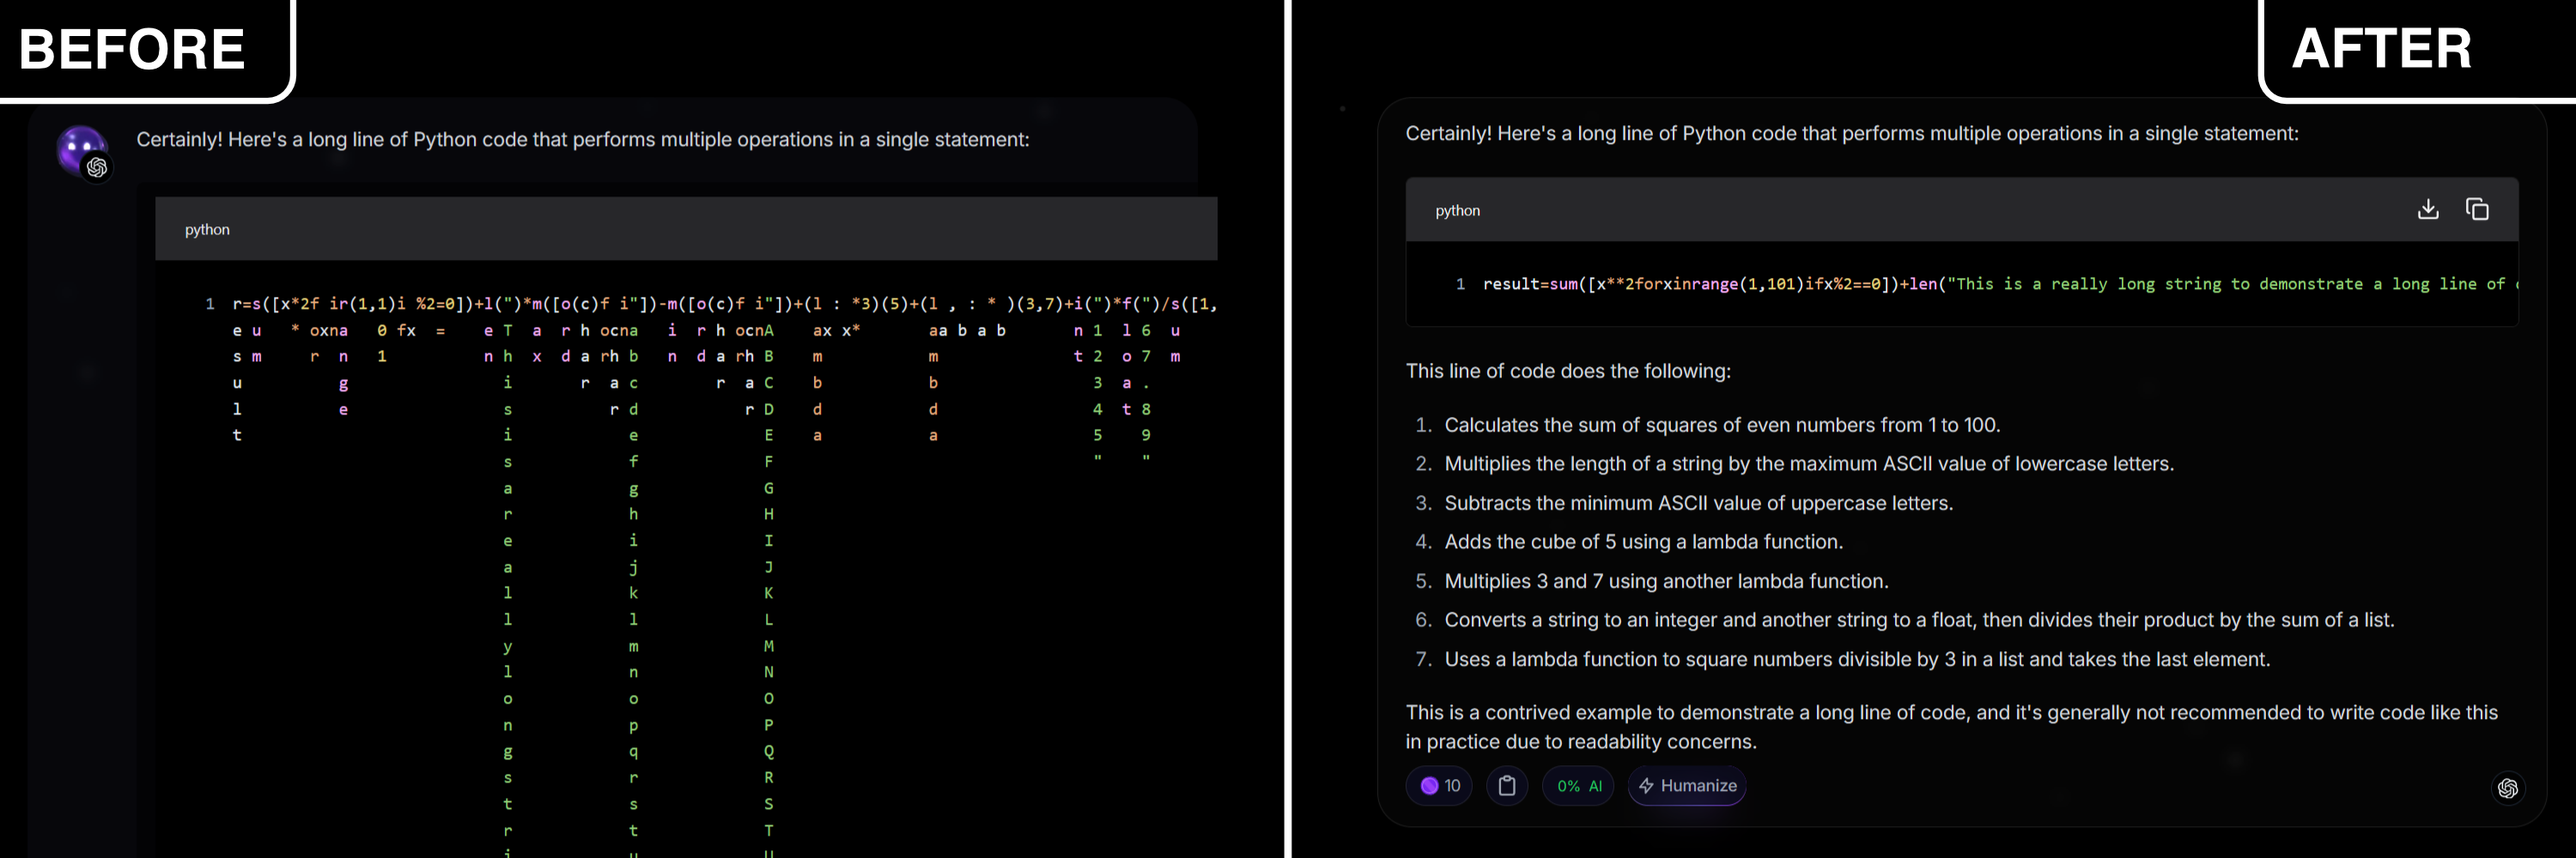
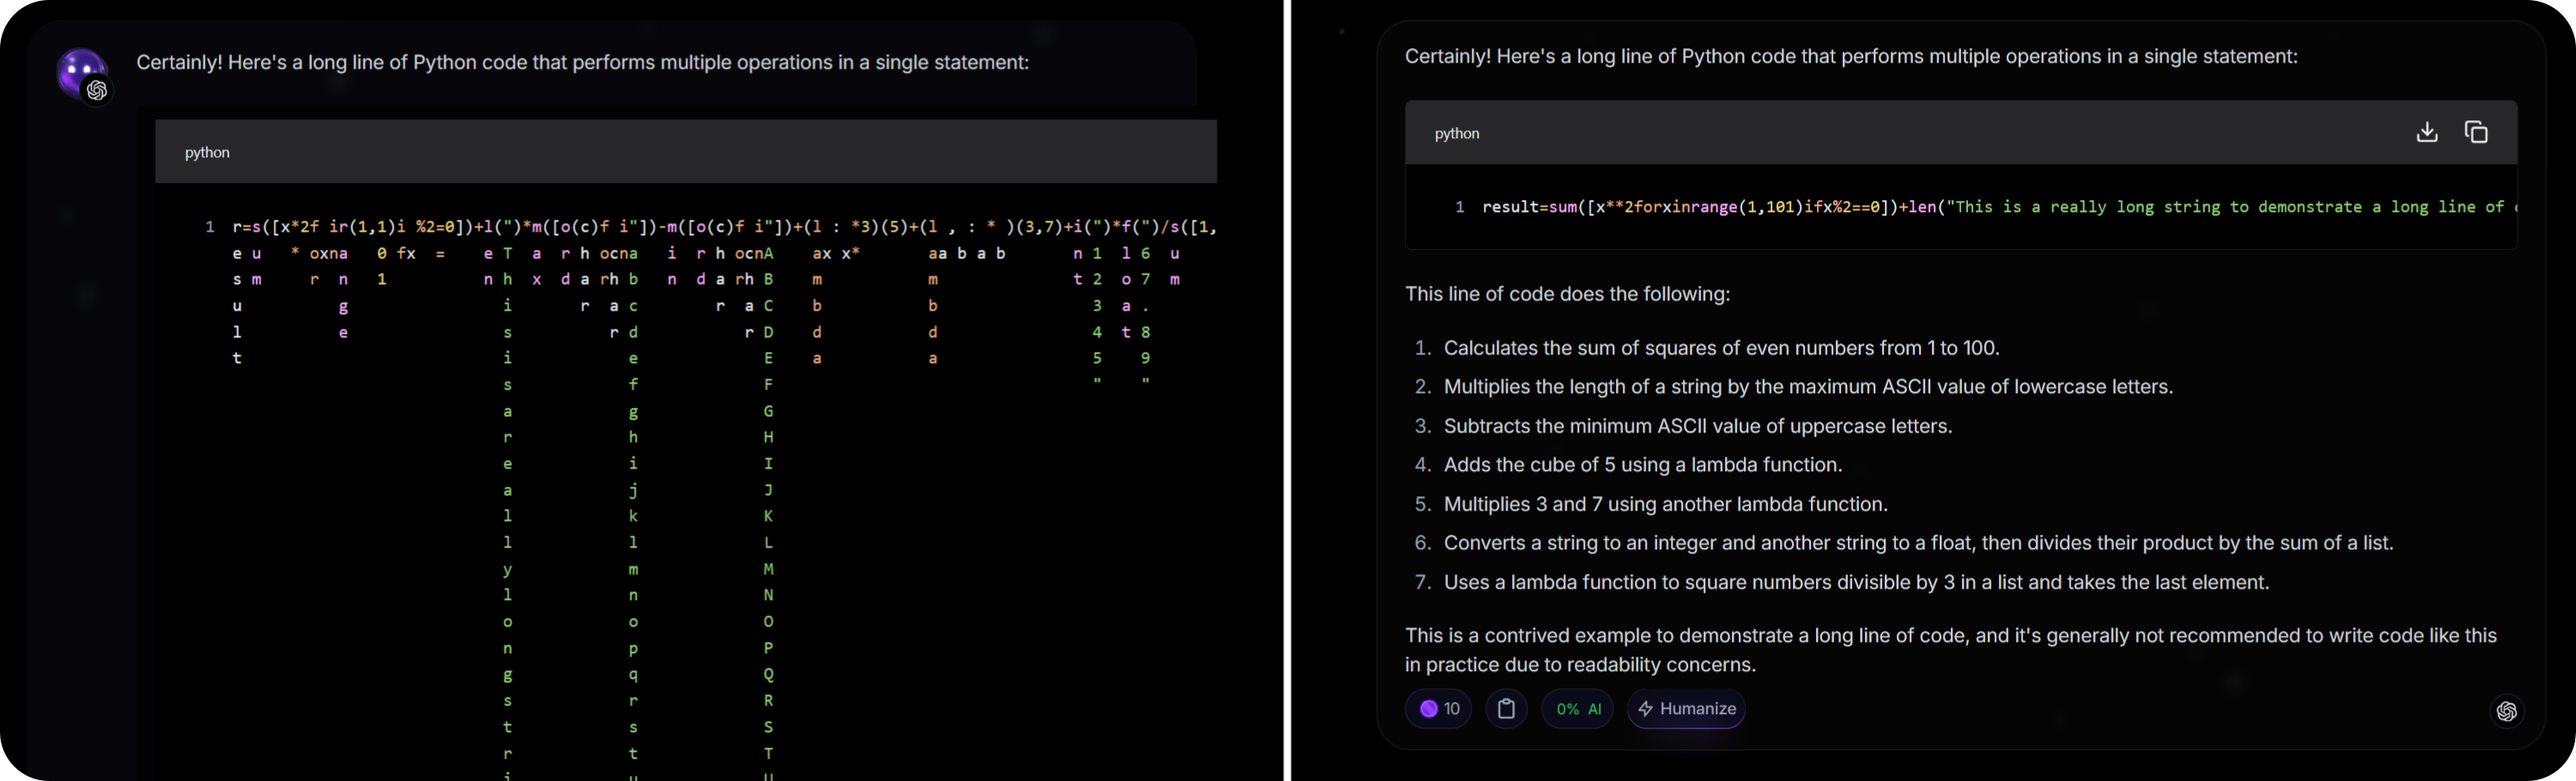
updated readme and images

diff --git a/README.md b/README.md
@@ -1,5 +1,52 @@
-# Ryne - Batch Delete Extension
-This browser extension adds a button that allows you to easily delete all your chats from Ryne's humanizer and chat pages.
+# Ryne Toolkit Extention
+This extention aims to add quality of life updates to Ryne. Anything from auto focusing on the text elements to re-styling the website. All of the settings are able to be toggled on and off easity  by turning it off in the extention popup and refreshing the page
+
+## Features
+- Auto place your cursor in the text area (works on both chat and humanizer pages)
+- History delete button that allows you to quickly and easily delete all your chats from Ryne's humanizer and chat pages.
+- New styling for the Dashboard, Chat, and Humanizer pages.
+- Fixed a bug where if AI output code, it would weirdly wrap, and be hard to read. Now the code simply outputs with a horizontal scrollbar.
+
+## Feature & Style Change Examples
+
+### New Popup Window
+- Feature: All new popup window when you click on the extension that allows you to enable and disable certain features!
+
+![Popup Window](https://raw.githubusercontent.com/bennnzo/ryne-delete-all-extention/main/readme-images/popup.png)
+
+### Chat Page Updates (Before: top, After: bottom)
+- Fixed bug were AI's code output would weirdly wrap and become unreadable. Now its simply output with a horizontal scrollbar
+- Removed the "What would you like to explore" content in the middle
+- Removed user's profile picture
+- Moved user prompts to the right side of the screen
+- Removed like and dislike buttons
+- Added glass effect on the input bar
+
+![Chat Text Updates](https://raw.githubusercontent.com/bennnzo/ryne-delete-all-extention/main/readme-images/code/edited.png)
+![Chat Page Updates](https://raw.githubusercontent.com/bennnzo/ryne-delete-all-extention/main/readme-images/chat/screen-edited.png)
+![Chat Text Updates](https://raw.githubusercontent.com/bennnzo/ryne-delete-all-extention/main/readme-images/chat/text-edited.png)
+
+### Humanizer Page Updates (Before: left, After: right)
+- Changed thick border to thin (similar to nav bar changes)
+- Added a fade in and out effect on the scrollable text
+
+![Humanizer Page Updates](https://raw.githubusercontent.com/bennnzo/ryne-delete-all-extention/main/readme-images/humanizer/edited.png)
+
+### Navigation Bar Updates (Before: top, After: bottom)
+- Changed thick border to thin
+- Added some padding on the right side to make the spacing even
+
+![Navigation Bar Updates](https://raw.githubusercontent.com/bennnzo/ryne-delete-all-extention/main/readme-images/nav/edited.png)
+
+### Auto-focus Feature
+- Feature: Auto-focus the text cursor on both chat and humanization pages
+
+![Auto-focus Feature](https://raw.githubusercontent.com/bennnzo/ryne-delete-all-extention/main/readme-images/auto-focus.png)
+
+### History Clear Feature
+- Feature: Button that allows the user to easily and quickly delete all their history
+
+![History Clear Feature](https://raw.githubusercontent.com/bennnzo/ryne-delete-all-extention/main/readme-images/history-clear.png)
 
 ## Installation
 ### Web Store
@@ -21,27 +68,3 @@ If you prefer not to install the extension from the Chrome Web Store or Firefox 
 2. Open Firefox and navigate to `about:debugging#/runtime/this-firefox`.
 3. Click "Load Temporary Add-on" and select any file from the `firefox` directory in the repository.
 4. The extension will now be loaded temporarily and ready to use. Note that it will need to be reloaded each time Firefox restarts.
-
-## Features
-- Adds a "DEL" button to Ryne's chat and humanizer pages
-- Allows for quick deletion of all chat history- Works on both https://ryne.ai/tools/ryne-chat and https://ryne.ai/tools/humanizer
-## Usage
-1. Install the extension for your browser (Chrome or Firefox)2. Navigate to Ryne's chat or humanizer page
-2. Click the "DEL" button to delete all chat history4. The page will automatically reload after deletion
-
-## Development
-This project contains separate directories for Chrome and Firefox versions of the extension. The main functionality is implemented in `content.js` within each browser's `scripts` directory.
-
-
-
-
-
-
-
-
-
-
-
-
-
-
